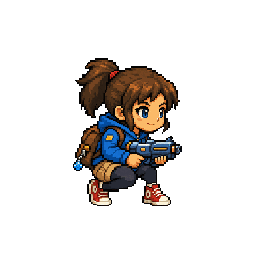
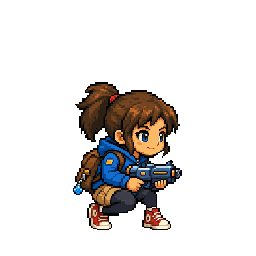
Add girl crouch animation and collision

Changed region(s): [[0.2812, 0.2188, 0.7188, 0.9062]]

diff --git a/docs/ASSET_MIGRATION.md b/docs/ASSET_MIGRATION.md
@@ -29,5 +29,6 @@ The source repository `Fishforgithub/tea-line-bot` is read-only. Copy only appro
 | `assets/characters/girl/girl_idle.png` | Approved project-specific image generation; pure-magenta source keyed to alpha with the standard image pipeline | Integrated as the human protagonist identity anchor |
 | `assets/characters/girl/girl_run_sheet.png` | Six-frame run-cycle generated from the approved identity anchor; keyed to alpha, normalized to six 256×256 cells | Integrated as the `run` animation at 10 FPS |
 | `assets/characters/girl/girl_air_sheet.png` | Two-frame airborne sheet generated from the approved identity anchor; keyed to alpha and normalized to two 256×256 cells | Integrated as velocity-driven `jump` and `fall` states |
+| `assets/characters/girl/girl_crouch.png` | Approved project-specific crouch sprite from `agent/art-production` commit `28a3b80`; identity-preserving pose normalized from the approved idle anchor; pure-magenta source keyed to alpha and normalized to a 256×256 frame with the standard feet baseline | Integrated as the grounded `crouch` animation |
 
 No production assets have been copied from `tea-line-bot` yet.
